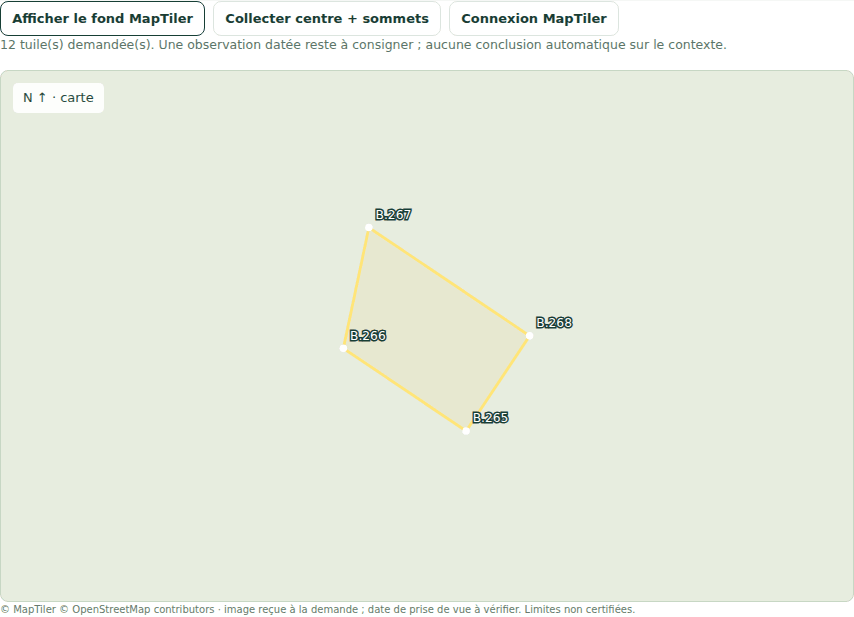
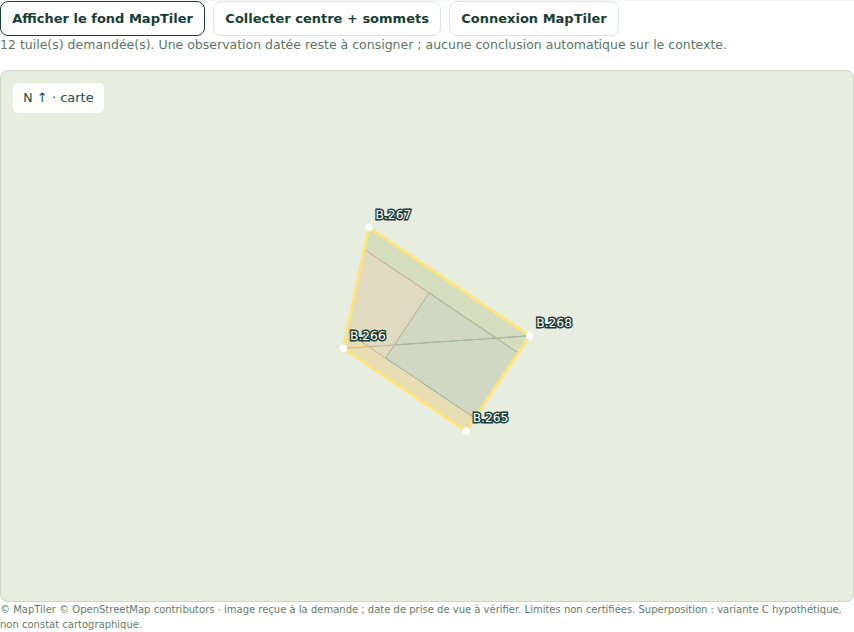
Variante de site superposée au fond MapTiler (zonage projeté en WGS84 par le serveur)
- Domaine : `zoningToGeographic` et `SiteZoningGeographic` — le zonage de
  chaque proposition de l'étape 01 est projeté en WGS84 avec la conversion
  même du contour (repère local → cadastral → géographique), seulement
  quand la parcelle se convertit ; `siteContext` expose cette conversion
  (`toGeographic`), les propositions portent `zoningGeographic`.
- Étape 01, fond MapTiler : la variante affichée (« Voir le schéma »),
  sinon retenue, sinon la première, est superposée au fond en polygones
  colorés à 28 % (« Hypothèse C · … »), crédit complété « Superposition :
  variante C hypothétique, non constat cartographique » — comme `showMap`
  du prototype.

Preuves : `site.test.ts` (projection cohérente avec le contour, rien sans
CRS converti) ; e2e (contour + 4 zones de la variante C, crédit) : 195
vérifications, « Scénario conforme » ; capture 01-desktop-maptiler.png.

Docs : matrice (ligne MapTiler, limite 2, prochaine action), fiche de
l'étape 01.

Claude-Session: https://claude.ai/code/session_0157kHiYbK714BYhfbxMJK9G

Changed region(s): [[0.0, 0.0, 1.0, 0.1848], [0.0, 0.9546, 1.0, 1.0], [0.3958, 0.3079, 0.6698, 0.7083]]

diff --git a/packages/domain-model/src/site.ts b/packages/domain-model/src/site.ts
@@ -16,7 +16,7 @@
  * qu'à l'affichage et vient d'une conversion explicite fournie par
  * l'appelant, jamais d'un mélange de repères.
  */
-import { polygonArea, siteZoning, sumArea, vertexCentroid, type Point2, type SiteVariant, type SiteZoning } from "@parcours/core-geometry";
+import { polygonArea, siteZoning, sumArea, vertexCentroid, type Point2, type SiteVariant, type SiteZone, type SiteZoning } from "@parcours/core-geometry";
 import type { GeographicCoordinate } from "./entities.js";
 import { HarmonieError, type HarmonieProfile, type HarmonieProposalComputation } from "./harmonie.js";
 
@@ -139,6 +139,13 @@ export interface SiteContext {
   geo: SiteGeographic;
   observations: SiteObservations;
   profile: HarmonieProfile;
+  /** Conversion repère local (origine au centroïde) → WGS84 `[lon, lat]` pour la superposition des zonages ; absente sans CRS connu. */
+  toGeographic?: (local: Point2) => Point2 | null;
+}
+
+/** Un zonage projeté en WGS84 (superposition sur un fond de carte) : mêmes zones, polygones en `[lon, lat]`. */
+export interface SiteZoningGeographic {
+  zones: { id: SiteZone["id"]; name: string; color: string; polys: Point2[][] }[];
 }
 
 /** Conversion explicite CRS déclaré → WGS84 (`[longitude, latitude]`), fournie par l'appelant ; `null` quand le CRS est inconnu. */
@@ -179,7 +186,11 @@ export function siteContext(parcel: SiteParcel | null, observations: SiteObserva
   const local = poly.map((q): Point2 => [q[0] - origin[0], q[1] - origin[1]]);
   const edge = observations.frontageEdge;
   const frontage = Number.isInteger(edge) && (edge as number) >= 0 && (edge as number) < poly.length ? (edge as number) : null;
-  return { parcel: { ...p, vertices: poly }, local, origin, area: polygonArea(local), frontage, geo: siteGeographic(p, observations, convert), observations, profile };
+  const geo = siteGeographic(p, observations, convert);
+  const ctx: SiteContext = { parcel: { ...p, vertices: poly }, local, origin, area: polygonArea(local), frontage, geo, observations, profile };
+  // Superposition des zonages sur un fond de carte : seulement quand le contour lui-même se convertit (même CRS, même conversion).
+  if (geo.points && p.crs && convert) ctx.toGeographic = (q) => convert(p.crs, [q[0] + origin[0], q[1] + origin[1]]);
+  return ctx;
 }
 
 export const fmtFr = (v: number | null | undefined, digits = 2): string => (Number.isFinite(v as number) ? (v as number).toLocaleString("fr-FR", { maximumFractionDigits: digits }) : "—");
@@ -194,6 +205,27 @@ export interface SiteOption {
   conditions: string;
   source: string;
   zoning: SiteZoning | null;
+  /** Le même zonage en WGS84 quand la parcelle est géoréférencée, pour la superposition sur le fond MapTiler (hypothèse, non constat). */
+  zoningGeographic: SiteZoningGeographic | null;
+}
+
+/** Projette un zonage (repère local) en WGS84 avec la conversion de la parcelle ; `null` dès qu'un point ne se convertit pas. */
+export function zoningToGeographic(zoning: SiteZoning, toGeographic: (local: Point2) => Point2 | null): SiteZoningGeographic | null {
+  const zones: SiteZoningGeographic["zones"] = [];
+  for (const zone of zoning.zones) {
+    const polys: Point2[][] = [];
+    for (const poly of zone.polys) {
+      const out: Point2[] = [];
+      for (const q of poly) {
+        const ll = toGeographic(q);
+        if (!ll) return null;
+        out.push(ll);
+      }
+      polys.push(out);
+    }
+    zones.push({ id: zone.id, name: zone.name, color: zone.color, polys });
+  }
+  return { zones };
 }
 
 const SITE_OPTION_TEXTS: [SiteVariant, string, string, string, string][] = [
@@ -248,6 +280,7 @@ export function siteOptions(c: SiteContext): SiteOption[] {
       conditions: "Ratios illustratifs d’organisation du sol, pas des droits à construire. Accès, relief, limites, usages admissibles et dimensionnement à confirmer.",
       source: "Contour source + scénario de programmation ; contexte réel non déduit sans observation.",
       zoning,
+      zoningGeographic: zoning && c.toGeographic ? zoningToGeographic(zoning, c.toGeographic) : null,
     };
   });
 }
@@ -255,7 +288,7 @@ export function siteOptions(c: SiteContext): SiteOption[] {
 /** Les propositions de l'étape 01 sous la forme que `buildHarmonieProposals` consomme. */
 export function siteProposalComputation(c: SiteContext): HarmonieProposalComputation {
   return {
-    options: siteOptions(c).map((o) => ({ key: o.key, title: o.title, proposal: o.text, benefit: o.benefit, tradeoff: o.tradeoff, validation: o.conditions, why: o.why, source: o.source, zoning: o.zoning })),
+    options: siteOptions(c).map((o) => ({ key: o.key, title: o.title, proposal: o.text, benefit: o.benefit, tradeoff: o.tradeoff, validation: o.conditions, why: o.why, source: o.source, zoning: o.zoning, zoningGeographic: o.zoningGeographic })),
     recommendedKey: recommendedSiteOption(c.observations).key,
   };
 }

diff --git a/apps/web/src/modules/parcours/MapTilerCard.tsx b/apps/web/src/modules/parcours/MapTilerCard.tsx
@@ -10,9 +10,9 @@
  */
 import { useState } from "react";
 import { useMutation, useQueryClient } from "@tanstack/react-query";
-import { api, ApiError, type ParcoursStep, type SiteView } from "../../lib/api";
+import { api, ApiError, type HarmonieProposal, type ParcoursStep, type SiteView } from "../../lib/api";
 import { adoptStep } from "../../lib/mutations";
-import { collectCenterElevation, collectElevationPoints, maptilerKey, satelliteMosaic, useMaptilerKey, type LonLat, type SatelliteMosaic } from "../../lib/maptiler";
+import { collectCenterElevation, collectElevationPoints, maptilerKey, mercator, satelliteMosaic, useMaptilerKey, type LonLat, type SatelliteMosaic } from "../../lib/maptiler";
 import { useProjectAccess } from "../../lib/access";
 
 const fmt = (x: number) => x.toLocaleString("fr-FR", { maximumFractionDigits: 2 });
@@ -67,9 +67,15 @@ export function MapTilerKeyDialog({ onClose, onReady }: { onClose: () => void; o
   );
 }
 
-/** Mosaïque satellite rendue comme le prototype (`#h7-map-host`) : tuiles positionnées, contour et sommets, crédit. */
-function MapView({ mosaic, site }: { mosaic: SatelliteMosaic; site: SiteView }) {
+/** Mosaïque satellite rendue comme le prototype (`#h7-map-host`) : tuiles positionnées, contour et sommets, variante de site superposée (hypothèse), crédit. */
+function MapView({ mosaic, site, proposal }: { mosaic: SatelliteMosaic; site: SiteView; proposal: HarmonieProposal | null }) {
   const poly = mosaic.polygon;
+  // Superposition de la variante de site retenue (ou affichée, ou la première) : toutes les surfaces restent des hypothèses.
+  const overlay = poly && proposal?.zoningGeographic ? proposal.zoningGeographic.zones : null;
+  const project = (ll: readonly [number, number]): [number, number] => {
+    const pt = mercator(ll, mosaic.zoom);
+    return [pt[0] - mosaic.origin[0], pt[1] - mosaic.origin[1]];
+  };
   return (
     <div id="h7-map-host">
       <div className="h7-map-viewport">
@@ -79,6 +85,15 @@ function MapView({ mosaic, site }: { mosaic: SatelliteMosaic; site: SiteView }) 
           ))}
         </div>
         <svg viewBox="0 0 900 560" className="h7-map-overlay" aria-label="Contour source sur fond MapTiler">
+          {overlay?.map((zone) =>
+            zone.polys.map((part, i) => (
+              <polygon key={`${zone.id}-${i}`} points={part.map((q) => project(q).join(",")).join(" ")} fill={zone.color} fillOpacity={0.28} stroke={zone.color} strokeWidth={1}>
+                <title>
+                  Hypothèse {proposal!.key} · {zone.name}
+                </title>
+              </polygon>
+            )),
+          )}
           {poly ? (
             <>
               <polygon points={poly.map((p) => p.join(",")).join(" ")} fill="#e9c66c" fillOpacity={0.13} stroke="#ffe578" strokeWidth={3} />
@@ -102,12 +117,15 @@ function MapView({ mosaic, site }: { mosaic: SatelliteMosaic; site: SiteView }) 
         </svg>
         <span className="h7-map-north">N ↑ · carte</span>
       </div>
-      <p className="h7-map-credit">{mosaic.attribution} · image reçue à la demande ; date de prise de vue à vérifier. Limites non certifiées.</p>
+      <p className="h7-map-credit">
+        {mosaic.attribution} · image reçue à la demande ; date de prise de vue à vérifier. Limites non certifiées.
+        {overlay ? ` Superposition : variante ${proposal!.key} hypothétique, non constat cartographique.` : ""}
+      </p>
     </div>
   );
 }
 
-export function MapTilerCard({ projectId, step }: { projectId: string; step: ParcoursStep }) {
+export function MapTilerCard({ projectId, step, active = null }: { projectId: string; step: ParcoursStep; active?: HarmonieProposal | null }) {
   const queryClient = useQueryClient();
   const access = useProjectAccess(projectId);
   const site = step.site!;
@@ -205,7 +223,7 @@ export function MapTilerCard({ projectId, step }: { projectId: string; step: Par
           }}
         />
       )}
-      {mosaic && <MapView mosaic={mosaic} site={site} />}
+      {mosaic && <MapView mosaic={mosaic} site={site} proposal={active ?? step.proposals.find((q) => q.retained) ?? step.proposals[0] ?? null} />}
     </div>
   );
 }

diff --git a/apps/web/src/modules/parcours/SiteHarmonie.tsx b/apps/web/src/modules/parcours/SiteHarmonie.tsx
@@ -65,10 +65,7 @@ export function SiteHero({ site, active }: { site: SiteView; active: HarmoniePro
                 </div>
               ))}
             </div>
-            <p className="h7-muted">
-              Ces surfaces décrivent des zones d’intention. Le « secteur d’implantation à étudier » n’est ni une emprise autorisée, ni une dalle, ni une surface
-              intérieure.
-            </p>
+            <p className="h7-muted">Ces surfaces décrivent des zones d’intention. Le « secteur d’implantation à étudier » n’est ni une emprise autorisée, ni une dalle, ni une surface intérieure.</p>
           </>
         )}
         <button type="button" className="button-secondary" disabled={!svg} onClick={() => svg && active && download(`Harmonie_Site_${active.key}_V7.svg`, "image/svg+xml", svg)}>
@@ -82,6 +79,7 @@ export function SiteHero({ site, active }: { site: SiteView; active: HarmoniePro
 export function SiteDataFold({
   projectId,
   step,
+  active = null,
   onSave,
   pending,
   error,
@@ -90,6 +88,8 @@ export function SiteDataFold({
 }: {
   projectId: string;
   step: ParcoursStep;
+  /** Variante de site affichée (« Voir le schéma »), superposée au fond MapTiler. */
+  active?: HarmonieProposal | null;
   onSave: (input: SiteObservationsInput) => void;
   pending: boolean;
   error: string | null;
@@ -213,8 +213,7 @@ export function SiteDataFold({
             <textarea value={note} maxLength={6000} rows={3} onChange={(e) => setNote(e.target.value)} />
           </label>
           <p className="h7-callout">
-            Un scénario saisi n’est pas une observation. Ni bruit, ni vents, ni sol, ni risque d’inondation ne sont déduits d’une simple image. L’eau éventuelle ne
-            justifie aucun bassin automatique.
+            Un scénario saisi n’est pas une observation. Ni bruit, ni vents, ni sol, ni risque d’inondation ne sont déduits d’une simple image. L’eau éventuelle ne justifie aucun bassin automatique.
           </p>
           <div className="h7-actions">
             <button type="submit" className="button-primary" disabled={pending}>
@@ -227,7 +226,7 @@ export function SiteDataFold({
             </p>
           )}
         </form>
-        <MapTilerCard projectId={projectId} step={step} />
+        <MapTilerCard projectId={projectId} step={step} active={active} />
         <details className="h7-fold">
           <summary>Repère géographique du centre — si la conversion manque</summary>
           <div className="h7-form">

diff --git a/packages/domain-model/src/site.test.ts b/packages/domain-model/src/site.test.ts
@@ -85,6 +85,17 @@ describe("site (étape 01 Harmonie)", () => {
     expect(manual.center).toEqual({ frame: "geographic", lon: -7.31, lat: 33.7 });
     expect(manual.source).toBe("Repérage saisi, sans calage du contour");
     expect(siteGeographic({ ...P118, crs: "EPSG:9999" }, DEFAULT_SITE_OBSERVATIONS, convert).center).toBeNull();
+    // Zonages projetés en WGS84 pour la superposition sur un fond de carte : mêmes zones, points convertis par la même
+    // conversion que le contour (repère local → cadastral → géographique) ; rien sans CRS converti.
+    const c = siteContext(P118, DEFAULT_SITE_OBSERVATIONS, PROFILE, convert);
+    const option = siteOptions(c)[0]!;
+    expect(option.zoningGeographic?.zones.map((z) => z.id)).toEqual(option.zoning!.zones.map((z) => z.id));
+    const first = option.zoning!.zones[0]!.polys[0]![0]!;
+    const projected = option.zoningGeographic!.zones[0]!.polys[0]![0]!;
+    expect(projected[0]).toBeCloseTo(-7.3 + (first[0] + c.origin[0] - 321970) * 1e-5, 9);
+    expect(projected[1]).toBeCloseTo(33.7 + (first[1] + c.origin[1] - 347190) * 1e-5, 9);
+    expect(siteOptions(siteContext(P118, DEFAULT_SITE_OBSERVATIONS, PROFILE))[0]!.zoningGeographic).toBeNull();
+    expect(siteOptions(siteContext({ ...P118, crs: "EPSG:9999" }, DEFAULT_SITE_OBSERVATIONS, PROFILE, convert))[0]!.zoningGeographic).toBeNull();
   });
 
   it("draws the site sketch with the variant, the computed area, the bornes and the approach edge", () => {

diff --git a/packages/domain-model/src/harmonie.ts b/packages/domain-model/src/harmonie.ts
@@ -17,6 +17,7 @@
  * calculée dans `dependencies.ts` et reçue ici sous forme d'empreinte.
  */
 import type { SiteZoning } from "@parcours/core-geometry";
+import type { SiteZoningGeographic } from "./site.js";
 import type {
   HarmonieHistoryEntry,
   HarmonieOption,
@@ -128,6 +129,8 @@ export interface HarmonieProposal {
   orphaned: boolean;
   /** Étape 01 : zonage calculé sur le contour de la parcelle (`null` sans contour exploitable). */
   zoning?: SiteZoning | null;
+  /** Étape 01 : le zonage en WGS84 quand la parcelle est géoréférencée (superposition sur le fond MapTiler). */
+  zoningGeographic?: SiteZoningGeographic | null;
   /** Propositions localisées : le local du modèle (`niveau|objet`) et l'objet natif. */
   roomId?: string;
   objectId?: string;
@@ -168,6 +171,7 @@ export interface ComputedHarmonieOption extends HarmonieOption {
   why: string;
   source: string;
   zoning?: SiteZoning | null;
+  zoningGeographic?: SiteZoningGeographic | null;
 }
 
 export interface HarmonieProposalComputation {
@@ -237,6 +241,7 @@ export function buildHarmonieProposals(
       stale: isProposalStale(decision, fingerprint),
       orphaned: false,
       ...(opt.zoning !== undefined ? { zoning: opt.zoning } : {}),
+      ...(opt.zoningGeographic !== undefined ? { zoningGeographic: opt.zoningGeographic } : {}),
     };
   });
   const locals: HarmonieProposal[] = (computed?.locals ?? []).map((opt) => {

diff --git a/apps/web/src/lib/maptiler.ts b/apps/web/src/lib/maptiler.ts
@@ -104,7 +104,7 @@ export async function collectCenterElevation(center: LonLat, key: string): Promi
 }
 
 /** Projection Web Mercator en pixels de tuile (256 px) au zoom `z`, comme `mercator(ll, z)` du prototype. */
-export function mercator(ll: LonLat, z: number): [number, number] {
+export function mercator(ll: readonly [number, number], z: number): [number, number] {
   const n = 256 * 2 ** z;
   return [((ll[0] + 180) / 360) * n, ((1 - Math.asinh(Math.tan((ll[1] * Math.PI) / 180)) / Math.PI) / 2) * n];
 }
@@ -115,6 +115,8 @@ export interface SatelliteMosaic {
   /** Sommets du contour dans la fenêtre (px), ou null quand seul le centre est connu. */
   polygon: [number, number][] | null;
   zoom: number;
+  /** Origine de la fenêtre en pixels Mercator au zoom retenu (pour projeter d'autres points). */
+  origin: [number, number];
   attribution: string;
 }
 
@@ -159,5 +161,5 @@ export async function satelliteMosaic(center: LonLat, vertices: LonLat[] | null,
     : null;
   const tmp = typeof document !== "undefined" ? document.createElement("div") : null;
   if (tmp) tmp.innerHTML = String(meta.attribution ?? "© MapTiler");
-  return { tiles, polygon, zoom: z, attribution: (tmp?.textContent || "© MapTiler").trim() };
+  return { tiles, polygon, zoom: z, origin, attribution: (tmp?.textContent || "© MapTiler").trim() };
 }

diff --git a/apps/web/src/modules/parcours/HarmoniePanel.tsx b/apps/web/src/modules/parcours/HarmoniePanel.tsx
@@ -300,7 +300,7 @@ export function HarmoniePanel({
         {missionsPreparatory && <div className="h7-callout warn">Les missions ci-dessous sont préparatoires. Aucune mission n’est engagée sans décision favorable.</div>}
 
         {site && onSaveSite ? (
-          <SiteDataFold key={site.observations.observedAt ?? "initial"} projectId={projectId} step={step} onSave={onSaveSite} pending={pending} error={siteError} open={siteFoldOpen} onToggle={setSiteFoldOpen} />
+          <SiteDataFold key={site.observations.observedAt ?? "initial"} projectId={projectId} step={step} active={activeSite} onSave={onSaveSite} pending={pending} error={siteError} open={siteFoldOpen} onToggle={setSiteFoldOpen} />
         ) : (
           <details className="h7-fold">
             <summary>Données mobilisées et intentions reçues ({step.incoming.length})</summary>

diff --git a/apps/web/src/lib/api.ts b/apps/web/src/lib/api.ts
@@ -16,6 +16,7 @@ import type {
   ProgrammeModelLinkRow,
   ProgrammeScenarioRow,
   SiteObservations,
+  SiteZoningGeographic,
   StepResults,
   StructureStatement,
   SurfaceTransfer,
@@ -226,6 +227,8 @@ export interface HarmonieProposal {
   orphaned: boolean;
   /** Étape 01 : zonage calculé sur le contour de la parcelle (`null` sans contour exploitable). */
   zoning?: SiteZoning | null;
+  /** Étape 01 : le zonage en WGS84 quand la parcelle est géoréférencée (superposition sur le fond MapTiler, hypothèse). */
+  zoningGeographic?: SiteZoningGeographic | null;
   /** Propositions localisées (étapes 10/11) : le local du modèle et l'objet natif. */
   roomId?: string;
   objectId?: string;

diff --git a/docs/migration/matrix.md b/docs/migration/matrix.md
@@ -28,7 +28,7 @@ commencé.
 | Profil Harmonie par type de bâtiment (PROFILES, alias, « Formation & bureaux » pour mixte formation + bureaux) | Extraire | `harmonie-profiles.json` ; `harmonieProfile()` ; type déclaré via la répartition programmatique | ✅ | `harmonie.test.ts` ; e2e « profil suit le type (Habitation) », exemple « Formation & bureaux » |
 | Propositions de site A/B/C de l'étape 01 (`siteOptions`, zonage calculé sur le contour réel aux taux 15/50/25/10 · 10/45/35/10 · 12/43/20/25 %, schéma SVG `svgSite` + légende + export, « Pourquoi ici » selon côté d'approche, contexte arrière, altimétrie ; proposition de départ `recommended(1)` par priorité / façade exposée ; « Voir le schéma ») | Extraire | géométrie `packages/core-geometry/src/site-zoning.ts` (triangulate, cutArea, zoning) ; domaine `packages/domain-model/src/site.ts` (siteContext, siteOptions, recommandation, validation, SVG) ; API `GET …/steps/1` (`site`, propositions avec `zoning`) ; `modules/parcours/SiteHarmonie.tsx` dans `HarmoniePanel.tsx` | ✅ | `site-zoning.test.ts` (6), `site.test.ts` (7), `app.test.ts` « Étape 01 — propositions de site… » ; e2e (schéma, légende 15/50/25/10 %, « Pourquoi ici » B.265 → B.266, Voir le schéma) ; `captures/webapp/01-desktop.png`, `new-01-desktop.png` |
 | Données du site (étape 01) : côté d'approche, nature de l'approche, priorité, contextes avant / arrière, source, note, repère WGS84 saisi ; règle « approche documentée ⇒ côté + source » ; faits (parcelle, contour calculé, contenance source, géolocalisation) | Extraire | `projects.site_observations` ; `PUT …/steps/1/site` (422 avec le message du prototype) ; conversion explicite EPSG:26191 / 2154 → WGS84 (`lib/site-context.ts`, proj4, définitions du prototype) ; `SiteDataFold` | ✅ | `app.test.ts` ; e2e « priorité Séparation des mouvements → C », « approche documentée sans source → refus » ; données du site de l'exemple P.118 importées (`siteObservations` extrait de p118-resolved-app) |
-| Fond MapTiler et altimétrie (« Afficher le fond MapTiler », « Collecter centre + sommets », « Connexion MapTiler ») dans le panneau Harmonie de l'étape 01 | Adapter (appels depuis le navigateur avec la clé de l'utilisateur, jamais transmise à l'API ; résultats enregistrés comme données déclarées, datées et sourcées) | `apps/web/src/lib/maptiler.ts` (clé réutilisée depuis l'outil Parcelle ou saisie, `showMap` → mosaïque de tuiles 900 × 560 avec le contour source, `collectElevation` → centre + sommets contrôlés point par point), `modules/parcours/MapTilerCard.tsx` (messages d'état du prototype) ; `PUT …/steps/1/site/elevation` → `siteObservations.elevation` (« Modèle de terrain · non relevé topographique », amplitude citée par « Pourquoi ici », étape 01 régénérée) ; bilan : « Collecter l'altitude indicative du centre » → `PUT …/design-review/elevation` → `siteContext.elevation` (« service numérique, non relevé topographique ») | ✅ (service simulé dans le scénario : aucun appel réel depuis la CI ; la superposition de la variante de site sur le fond n'est pas reprise) | `app.test.ts` (forme et plage contrôlées, amplitude, propositions, contexte, archive) ; e2e 6c (sans clé → refus explicite ; clé de session ; mosaïque demandée au service avec contour B.265… ; 5 positions, amplitude 4 m) et 6b' (altitude du centre) ; `captures/webapp/01-desktop-maptiler.png` |
+| Fond MapTiler et altimétrie (« Afficher le fond MapTiler », « Collecter centre + sommets », « Connexion MapTiler ») dans le panneau Harmonie de l'étape 01 | Adapter (appels depuis le navigateur avec la clé de l'utilisateur, jamais transmise à l'API ; résultats enregistrés comme données déclarées, datées et sourcées) | `apps/web/src/lib/maptiler.ts` (clé réutilisée depuis l'outil Parcelle ou saisie, `showMap` → mosaïque de tuiles 900 × 560 avec le contour source, `collectElevation` → centre + sommets contrôlés point par point), `modules/parcours/MapTilerCard.tsx` (messages d'état du prototype, variante de site affichée / retenue superposée au fond — `zoningGeographic` : zonage projeté en WGS84 par le serveur avec la conversion du contour, `zoningToGeographic`) ; `PUT …/steps/1/site/elevation` → `siteObservations.elevation` (« Modèle de terrain · non relevé topographique », amplitude citée par « Pourquoi ici », étape 01 régénérée) ; bilan : « Collecter l'altitude indicative du centre » → `PUT …/design-review/elevation` → `siteContext.elevation` (« service numérique, non relevé topographique ») | ✅ (service simulé dans le scénario : aucun appel réel depuis la CI) | `app.test.ts` (forme et plage contrôlées, amplitude, propositions, contexte, archive) ; e2e 6c (sans clé → refus explicite ; clé de session ; mosaïque demandée au service avec contour B.265… ; 5 positions, amplitude 4 m) et 6b' (altitude du centre) ; `captures/webapp/01-desktop-maptiler.png` |
 | Propositions LOCALES par local (étapes 10/11) : lecture du modèle natif (`flow-v62 analyse` / `harmony-app context` — locaux de rôle « room » par niveau, aire du polygone moins trous, usage déduit du nom, capacité inscrite au nom, ratio, ouvertures au contact, mobilier contenu, lecture et statut sous réserves, empreinte FNV-1a), une proposition par local utilisable (hors réserves / circulations / techniques, 100 max), cas de densité (bureau < 6 m²/poste) → texte et proposition de départ C, groupe « local » indépendant des partis, lien par défaut = local, cibles 11/13/16 ou 13/16/18, « Modèle courant : n niveaux · n zones · empreinte » | Extraire (moteur pur) + Adapter (serveur) | `packages/domain-model/src/model-analysis.ts` (géométrie et textes du prototype) ; `harmonie.ts` (groupe local, remplacement limité aux partis) ; `apps/api/src/lib/model-context.ts` (modèle du magasin de l'Atelier + liens du cas de programme) ; `HarmoniePanel.tsx` (pli « N propositions localisées sur les usages du modèle », kicker « H10 · LOCAL », source) | ✅ | `model-analysis.test.ts` (3, sur le modèle P.118) ; `app.test.ts` « adds one local proposal per usable room… » ; e2e étape 10 (33 propositions localisées, carte, empreinte, local retenu sans remplacer le parti) ; `captures/webapp/10-desktop.png` |
 | Péremption « À réexaminer » (`fingerprint` / `isStageStale` / `proposalStale`) : empreinte par étape sur les mêmes données que le prototype (site : parcelle + géolocalisation + observations + type ; formulaires ; besoins 03–05 ; `setback` de la parcelle ; cas de programme ou répartition ; `floorDesign` / `levels` / emprise ; décision 19 ; intentions reçues avec version d'arbitrage et péremption de l'origine), `generatedHash` par étape, `acceptedHash` par choix retenu ; encart « Données pertinentes modifiées… », chip « À réexaminer · choix conservé », « Source à réexaminer » sur l'intention reçue, suffixe « · à réexaminer » (panneau et carte d'étape), vérification refusée tant que l'étape n'est pas actualisée (message du prototype), « Actualiser les propositions » (révision +1, choix conservés, toast), « Confirmer ce choix » ; choix dont la proposition a disparu conservé en proposition orpheline (`orphaned`) grâce à l'instantané pris à l'arbitrage | Extraire + Adapter (calcul à la lecture, serveur autoritaire) | `packages/domain-model/src/dependencies.ts` (`stepFingerprintBase`, `computeStepDependencies`, `siteContextHash`), `harmonie.ts` (`isProposalStale`, `isStageStale`, `regenerateHarmonieStep`, instantané) ; `apps/api/src/lib/step-context.ts` (contexte par requête, empreintes des 21 étapes) ; `POST …/steps/:n/harmonie/generate` ; import P.118 : empreintes posées sur les données importées ; `HarmoniePanel.tsx` | ✅ | `dependencies.test.ts` (données pertinentes par étape, propagation amont → aval, `acceptedHash`, orphelins, vérification refusée) ; `app.test.ts` « dates each retained choice… », « keeps a retained choice whose proposal vanished… », « imports P.118 with nothing to re-examine… » ; e2e 6e ; `captures/webapp/02-desktop-reexaminer.png` |
 | « Rapport de cette étape » (`Harmonie_Etape_NN_V7.html`) et « Exporter la synthèse des choix Harmonie » (`Harmonie_Choix_Parcours_V7.html`, outils du projet de la vue d'ensemble) : document HTML autonome et imprimable (feuille `h7-css` du prototype extraite telle quelle), cartes des partis et des choix retenus avec schéma de site, intentions reçues, choix à transmettre, péremption, cadre et références | Extraire (serveur) | `packages/domain-model/src/harmonie-report.ts` ; `apps/api/src/data/harmonie-report.css` (extraction) ; `GET …/steps/:n/harmonie/rapport`, `GET …/steps/harmonie/rapport` (pièce jointe, `nosniff`) ; liens de téléchargement dans le panneau et « Outils du projet » | ✅ (destinations en texte plutôt qu'en boutons masqués) | `dependencies.test.ts` « harmonieReportHtml » ; `app.test.ts` « …serves the step report and the project synthesis… » ; e2e (nom de fichier et contenu des deux rapports) |
@@ -134,7 +134,7 @@ Trois modules du brief sans écran propre dans le prototype : leurs fonctions y 
 ## Limites restantes
 
 1. Atelier : le moteur est encapsulé tel quel (scripts classiques, non typés) ; l'édition des observations du dossier Harmony (page V6, superseded) n'est pas portée, bien que le dossier (observations, fiches de locaux, ambiances, actions, revues) soit conservé par projet, lu par le bilan et mis à jour par les liaisons programme ↔ modèle ; la copie automatique de la référence au premier dessin (« Exemple protégé : première modification dans une copie automatique ») n'est pas reprise.
-2. Étape 01 : panneau Harmonie sous l'outil plutôt que dans sa colonne gauche ; la superposition de la variante de site retenue sur le fond MapTiler n'est pas reprise ; les appels MapTiler ne sont pas exercés contre le service réel par la CI (simulés).
+2. Étape 01 : panneau Harmonie sous l'outil plutôt que dans sa colonne gauche ; les appels MapTiler ne sont pas exercés contre le service réel par la CI (simulés).
 3. Étapes 10/11 : bilan du bâtiment conçu porté ; dans son onglet « Hypothèses & MapTiler », « Afficher le satellite » n'est pas repris (le fond se consulte à l'étape 01) — l'altitude du centre et l'observation déclarée le sont ; pas de journal des événements de transmission (`transmissionV62.events`) ; la revue n'alimente pas encore `harmony.reviews` (bilan documentaire de la page Harmony) ; « Capacités & ambiances des espaces » ouvre l'onglet « Locaux & Répartition » du bilan (comportement de la copie), la table `roomsHTML` de la référence n'étant servie qu'aux étapes 06 / 07.
 4. Péremption : l'altimétrie collectée (MapTiler) n'entre pas dans les observations du site.
 5. Bibliothèque des bâtiments : « Ouvrir le modèle P.118 » depuis un projet sans modèle : non porté (le lien n'est proposé que depuis un projet).
@@ -147,5 +147,4 @@ Trois modules du brief sans écran propre dans le prototype : leurs fonctions y 
 
 Limites restantes, par ordre d'utilité : notifications d'invitation
 (courriel : service externe), découpage du scénario e2e par module,
-réponses en fil aux commentaires, superposition de la variante de site sur
-le fond MapTiler.
+réponses en fil aux commentaires.

diff --git a/docs/migration/etapes/01.md b/docs/migration/etapes/01.md
@@ -78,7 +78,7 @@ Exemple P.118 : choix **A** retenu — « Accueil extérieur lisible et service 
 | Harmonie · propositions A/B/C, Retenir / Adapter / Écarter / Traduire / Dessiner / Vérifier, intentions reçues, transmission | ✅ | HarmoniePanel.tsx ; règles serveur dans parcours-steps.ts (tests app.test.ts) ; moteur domain-model/harmonie.ts (tests) |
 | Péremption « À réexaminer » (empreinte des données pertinentes de l'étape et des intentions reçues ; encart « Données pertinentes modifiées », chip « À réexaminer · choix conservé », « Source à réexaminer »), « Actualiser les propositions », « Rapport de cette étape » (Harmonie_Etape_01_V7.html) | ✅ | domain-model/dependencies.ts et harmonie-report.ts (tests) ; lib/step-context.ts ; POST …/harmonie/generate, GET …/harmonie/rapport ; e2e 6e |
 | Propositions de site A/B/C calculées sur la parcelle (zonage 15/50/25/10 · 10/45/35/10 · 12/43/20/25 %, schéma SVG, légende, export, « Voir le schéma »), proposition de départ selon la priorité déclarée, données du site (côté d'approche, nature, priorité, contextes, source, note, repère WGS84) | ✅ | core-geometry/site-zoning.ts, domain-model/site.ts (tests) ; GET …/steps/1 (site), PUT …/steps/1/site (422 « Pour une approche documentée… ») ; SiteHarmonie.tsx ; e2e étape 01 |
-| Fond MapTiler / altimétrie depuis le pli « Données du site » (« Afficher le fond MapTiler », « Collecter centre + sommets », « Connexion MapTiler ») | ✅ (service simulé dans le scénario e2e ; superposition de la variante non reprise) | MapTilerCard.tsx, lib/maptiler.ts ; PUT …/steps/1/site/elevation ; app.test.ts « offers A/B/C… » ; e2e 6c ; capture 01-desktop-maptiler.png |
+| Fond MapTiler / altimétrie depuis le pli « Données du site » (« Afficher le fond MapTiler », « Collecter centre + sommets », « Connexion MapTiler ») | ✅ (service simulé dans le scénario e2e ; variante de site superposée au fond) | MapTilerCard.tsx, lib/maptiler.ts ; PUT …/steps/1/site/elevation ; app.test.ts « offers A/B/C… » ; e2e 6c ; capture 01-desktop-maptiler.png |
 | Outil Parcelle (iframe « Parcelle — Atelier satellite » : Leaflet, proj4, import KML/KMZ, MapTiler optionnel) | ✅ | Document du prototype extrait tel quel (apps/web/scripts/extract-parcelle.mjs → public/parcelle), fichiers servis par Fadi au contrat natif de l'outil (routes/parcels.ts, révision par fichier, 409) ; e2e : fichier P.118 ouvert, « Mes parcelles » 1 345,55 m², borne modifiée |
 | Transmission parcelle → modèle (acceptParcel : lié / incomplet / invalide / conflit / conflit d'emprise / recul à recalculer) | ✅ | lib/parcel-transmission.ts ; POST …/parcels/:id/transmit ; e2e : borne déplacée → « Conflit avec le bâtiment dessiné », modèle non déplacé, retour → liée |
 | « Exemples · qualités du site par type de bâtiment » (phrase de site du profil, « Explorer la bibliothèque ») | ✅ | ProgrammeCase.tsx (SiteQualitiesFold) → /bibliotheque/batiments |
